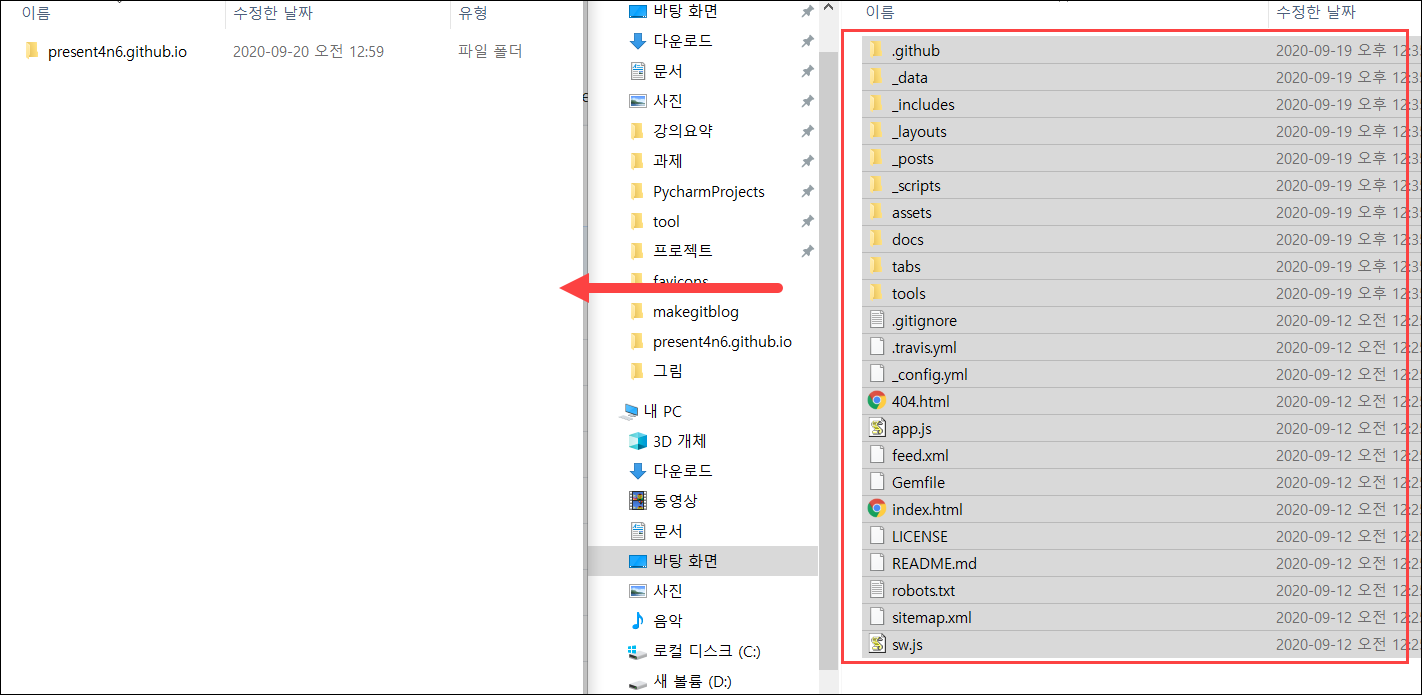
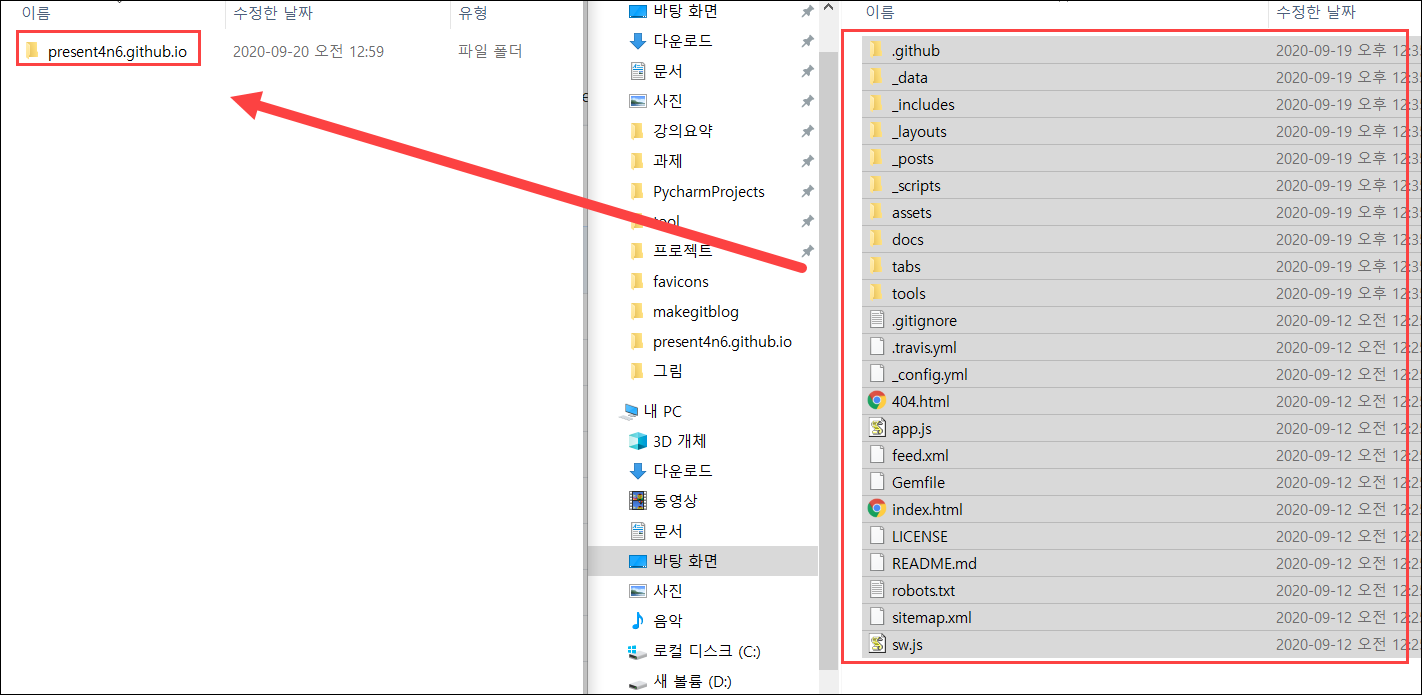
2020-09-20_02:35

diff --git a/_posts/2020-09-20-MakeGitBlog.md b/_posts/2020-09-20-MakeGitBlog.md
@@ -18,7 +18,7 @@ tistory, github, velog, notion, naver 등이 있습니다.
 	* 단점 : 마크다운 문법에 뒤쳐지고 있다, 스킨찾기 힘들다
 * github
 	* 장점 : 코드 수정해서 입맛대로 개조 가능, GitHub와 연동
-	* 단점 : 진입장벽이 높다
+	* 단점 : 진입장벽이 높다, 반영되는데 좀 걸린다
 * velog
 	* 장점 : 개발자 친화적, 간단하다
 	* 단점 : 꾸미는 맛이 없다
@@ -74,15 +74,16 @@ $ git clone [복사했던 주소]
 
 * 깃허브 블로그는 깃허브에 올린 소스코드가 작동해서 보여주는 원리입니다.  
 따라서 사용자가 소스코드를 마음대로 바꿀 수 있다는 장점이 있습니다.  
-그렇다고 無에서 하나하나 개발할 필요는 없습니다.  
+無에서 하나하나 개발할 필요는 없습니다.  
 Jekyll 라는 미리 만들어져 있는 테마를 가져와서 입맛에 맞게 수정해주면 됩니다.  
-<http://jekyllthemes.org/>  
 
-* 위 링크에서 여러 개의 테마를 확인할 수 있습니다.  
+* 다음 링크에서 아래 사진과 같이 여러 개의 테마를 확인할 수 있습니다.  
+<http://jekyllthemes.org/>  
 
 ![upload-image](/assets/post/makegitblog/6.png) 
 
-* 마음에 드는 테마를 고른 후 소스코드 파일을 다운로드해서 압축을 해제한 뒤, 만들었던 레파지토리 폴더에 복사해서 붙여줍니다.  
+* 마음에 드는 테마를 고른 후 소스코드 파일을 다운로드해서 압축을 해제한 뒤,  
+만들었던 레파지토리 폴더내에 복사해서 붙여줍니다.  
 
 ![upload-image](/assets/post/makegitblog/7.png) 
 
@@ -99,9 +100,9 @@ $ git push origin master
 
 ![upload-image](/assets/post/makegitblog/8.png) 
 
-깃 허브에 소스코드를 커밋할 때 소스코드에 오류가 있으면 적용이 되지 않습니다.  
-그렇기 때문에 꼭 커밋을 했으면 깃허브에 접속해서 반영이 되었는지 확인하는 것이 좋습니다.  
+깃 허브에 수정한 소스코드를 커밋할 때 소스코드에 오류가 있으면 적용이 되지 않습니다.  
+그렇기 때문에 커밋을 꼭 했으면 깃허브에 접속해서 반영이 되었는지 확인하는 것이 좋습니다.  
 또한 반영된 코드는 블로그에 적용되는데 시간이 조금 걸릴 수 있습니다.  
 브라우저 별로도 시간 차이가 조금 났었는데 엣지가 크롬보다 적용이 빨라서 저는 엣지로 사용하고 있습니다.  
-
+다음 포스팅으로는 댓글 기능 추가에 대해 다뤄보겠습니다!  
 
